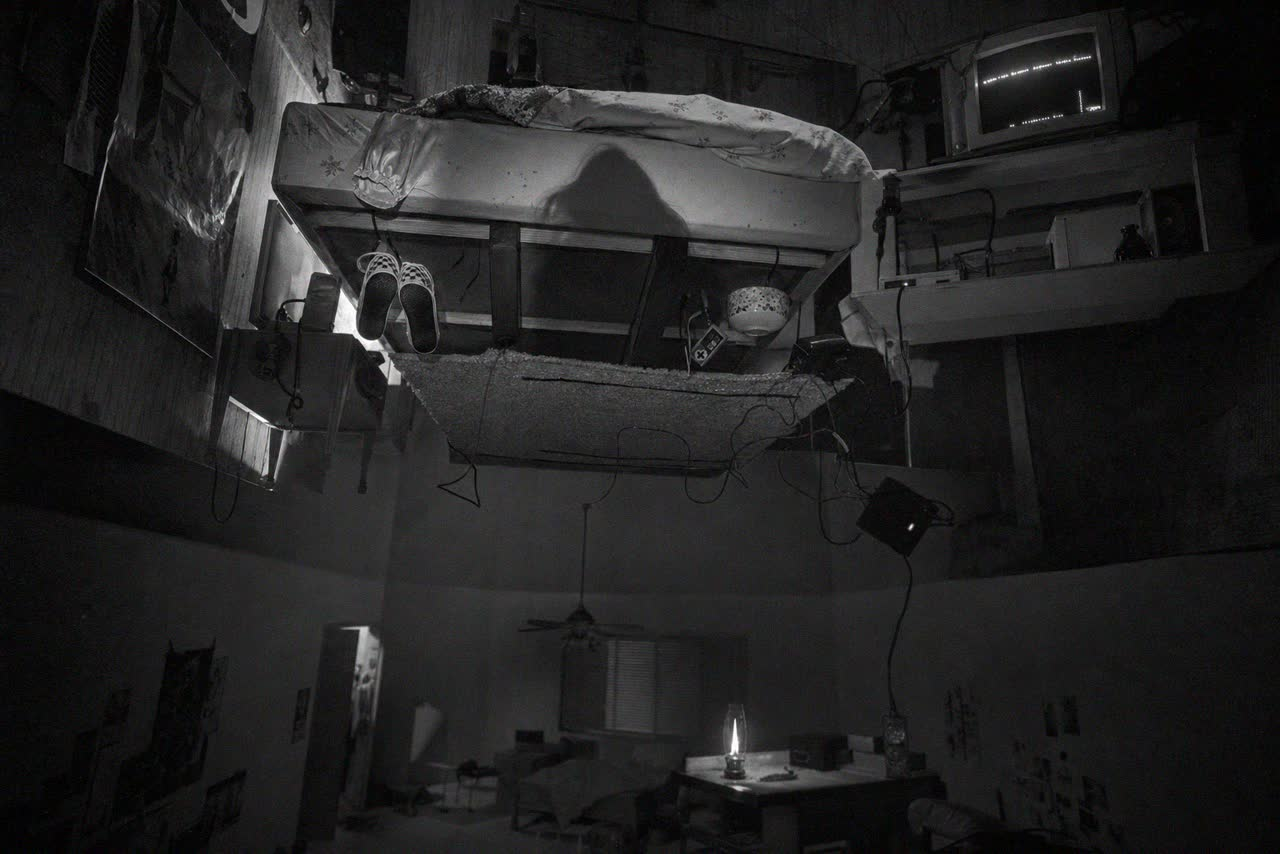
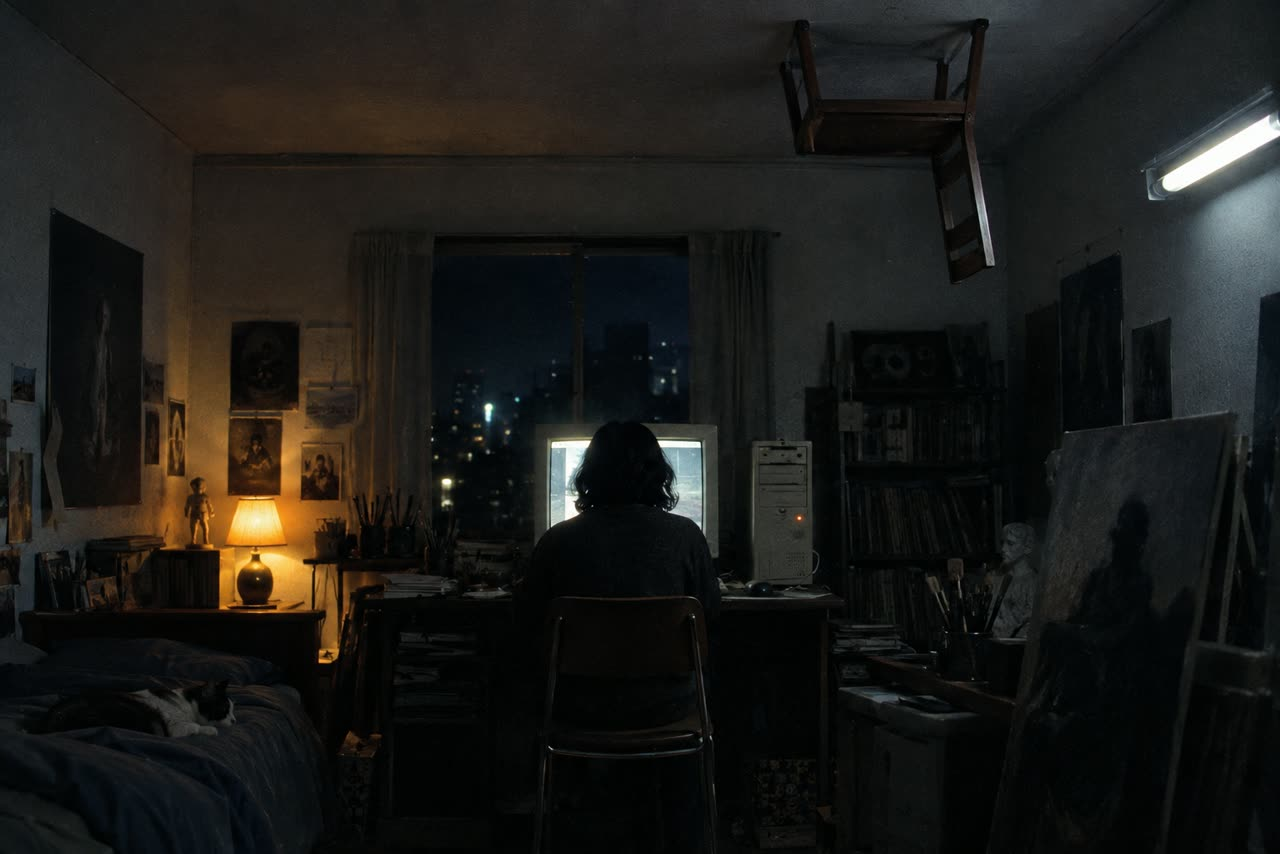
docs: neuf images générées sur le forfait, une par guide et une pour le dépôt

diff --git a/guides/07-image-interactive-2d-html.md b/guides/07-image-interactive-2d-html.md
@@ -2,6 +2,8 @@
 
 # Un grand tableau à parcourir dans un navigateur
 
+<img src="../images/07-image-2d.jpg" alt="" width="100%">
+
 Vous pouvez commencer avec une image, quelques zones animées et des boutons. HTML place les éléments, CSS règle leur apparence et leur position, JavaScript réagit aux gestes. Une transformation appliquée à un même conteneur fait bouger et grandir ensemble le fond et les éléments posés dessus. [Transformations CSS](https://developer.mozilla.org/en-US/docs/Web/CSS/Reference/Properties/transform), [vidéo HTML](https://developer.mozilla.org/en-US/docs/Web/HTML/Reference/Elements/video).
 
 **Commencez par une seule image et une seule interaction.** Le fichier [EXEMPLE-TABLEAU-2D.html](EXEMPLE-TABLEAU-2D.html) fourni à côté fonctionne sans installation : ouvrez-le dans votre navigateur. Il contient un dessin de remplacement, un déplacement à la souris ou au doigt, un zoom, une lumière cliquable et un emplacement pour votre vidéo. C'est une maquette à remplacer par votre œuvre.

diff --git a/guides/01-entrainer-un-lora.md b/guides/01-entrainer-un-lora.md
@@ -2,6 +2,8 @@
 
 # Entraîner un LoRA sur vos propres images, de A à Z
 
+<img src="../images/01-lora.jpg" alt="" width="100%">
+
 Guide pour les résident·es. Un LoRA est un fichier d'adaptation d'un modèle à vos images. Travaillez dans la session Windows de la tour : `C:\AI\ai-toolkit`, interface `http://localhost:8675`. Sur votre ordinateur personnel, « localhost » désignerait votre ordinateur ; la [fiche d'installation](la fiche d installation de la tour, interne) n'expose que ComfyUI aux artistes à distance. [Fonctionnement AI Toolkit](https://github.com/ostris/ai-toolkit#ai-toolkit-ui).
 
 Qwen-Image 2.1 est pris en charge, mais un défaut d'apprentissage a été signalé le 21 septembre. Commencez par un essai court et contrôlez son effet, avant de réserver plusieurs heures. La consommation et la durée exactes sur cette tour ne sont pas vérifiées. [Signalement #1054](https://github.com/ostris/ai-toolkit/issues/1054).

diff --git a/guides/04-pinokio-le-local.md b/guides/04-pinokio-le-local.md
@@ -2,6 +2,8 @@
 
 # Pinokio : produire sur votre tour
 
+<img src="../images/04-pinokio.jpg" alt="" width="100%">
+
 Votre point de départ : allumez votre station de travail. Ici, « local » signifie que le calcul se fait sur cette tour, même si vous la commandez à distance. Le présent guide concerne Pinokio, déjà installé, et non la création d'une nouvelle machine chez Scaleway.
 
 Pinokio est un lanceur : il installe les logiciels nécessaires à une application, la démarre et affiche son interface. Ce n'est pas un modèle de génération. Une application peut faire du calcul local ou appeler un service payant : vérifiez sa fiche avant de l'utiliser. [Présentation officielle](https://raw.githubusercontent.com/pinokiocomputer/docs.pinokio.computer/main/index.md).

diff --git a/guides/06-fal-ai-le-gros-calcul.md b/guides/06-fal-ai-le-gros-calcul.md
@@ -2,6 +2,8 @@
 
 # fal.ai : lancer un calcul en connaissant son prix
 
+<img src="../images/06-fal.jpg" alt="" width="100%">
+
 fal.ai donne accès à des modèles hébergés, depuis un formulaire dans le navigateur ou depuis un programme. Vous n'avez pas à faire tenir leurs poids dans les 32 Go de votre tour. Utilisez-le pour un modèle absent du local, un calcul trop lourd ou une comparaison ponctuelle. [Démarrage officiel](https://fal.ai/docs/documentation/quickstart).
 
 **Règle : annoncez une estimation et un plafond avant de lancer un lot, puis attendez l'accord du mentor.** Le compte fal.ai du mentor et vos clés OpenRouter plafonnées à 25 $ sont deux budgets distincts. Le plafond OpenRouter ne protège pas une dépense sur fal.ai.

diff --git a/guides/05-minimax-h3.md b/guides/05-minimax-h3.md
@@ -2,6 +2,8 @@
 
 # MiniMax H3 : vidéo, références et conditions d'accès
 
+<img src="../images/05-minimax.jpg" alt="" width="100%">
+
 **Pour la résidence en France, commencez par l'accès en ligne.** Les poids de MiniMax H3 sont téléchargeables, mais leur licence communautaire exclut l'Union européenne. « Poids ouverts » signifie que les fichiers appris par le modèle sont accessibles ; cela ne signifie pas que leur utilisation est autorisée partout. [Licence officielle](https://huggingface.co/MiniMaxAI/MiniMax-H3/blob/main/LICENSE), [FAQ officielle sur la différence entre API et poids](https://huggingface.co/MiniMaxAI/MiniMax-H3/blob/main/docs/QA-about-License.md).
 
 ## Ce que H3 permet de faire

diff --git a/guides/03-premieres-videos-comfyui.md b/guides/03-premieres-videos-comfyui.md
@@ -2,6 +2,8 @@
 
 # Vos premières vidéos dans ComfyUI
 
+<img src="../images/03-videos.jpg" alt="" width="100%">
+
 Vous partez d'une image et vous essayez un mouvement court. Ce guide utilise deux modèles locaux : Wan 2.2 TI2V 5B et LTX-2.3. Les workflows indiqués sont ceux de ComfyUI, vérifiés en ligne le 23 septembre 2026. Leur fonctionnement et leur temps de calcul n'ont pas été mesurés sur la tour de la résidence. [Wan dans ComfyUI](https://docs.comfy.org/tutorials/video/wan/wan2_2), [LTX-2.3 dans ComfyUI](https://docs.comfy.org/tutorials/video/ltx/ltx-2-3).
 
 ## 1. Ouvrir la bonne interface et préparer une image

diff --git a/guides/02-premieres-images-comfyui.md b/guides/02-premieres-images-comfyui.md
@@ -2,6 +2,8 @@
 
 # Vos premières images dans ComfyUI
 
+<img src="../images/02-images.jpg" alt="" width="100%">
+
 L'objectif de cette séance : obtenir une image, en produire une variante, puis garder de quoi refaire les deux. Les réglages ci-dessous sont vérifiés dans la documentation et les workflows officiels disponibles le 23 septembre 2026. Ils n'ont pas été exécutés sur la tour de la résidence pendant cette vérification. Aucun temps de calcul ni pic de mémoire propre à cette machine n'est donc garanti.
 
 ## 1. Ouvrir le bon ComfyUI

diff --git a/guides/00-organiser-ses-essais.md b/guides/00-organiser-ses-essais.md
@@ -2,6 +2,8 @@
 
 # Garder un essai que vous pourrez reprendre
 
+<img src="../images/00-organiser.jpg" alt="" width="100%">
+
 Cette arborescence est une convention d'atelier, à créer dans `C:\AI\essais\vos-initiales\`. Un dossier correspond à une question : « Est-ce que mon LoRA conserve la matière du papier ? » Nommez-le `2026-09-23_papier_qwen21_v01`.
 
 ```text
